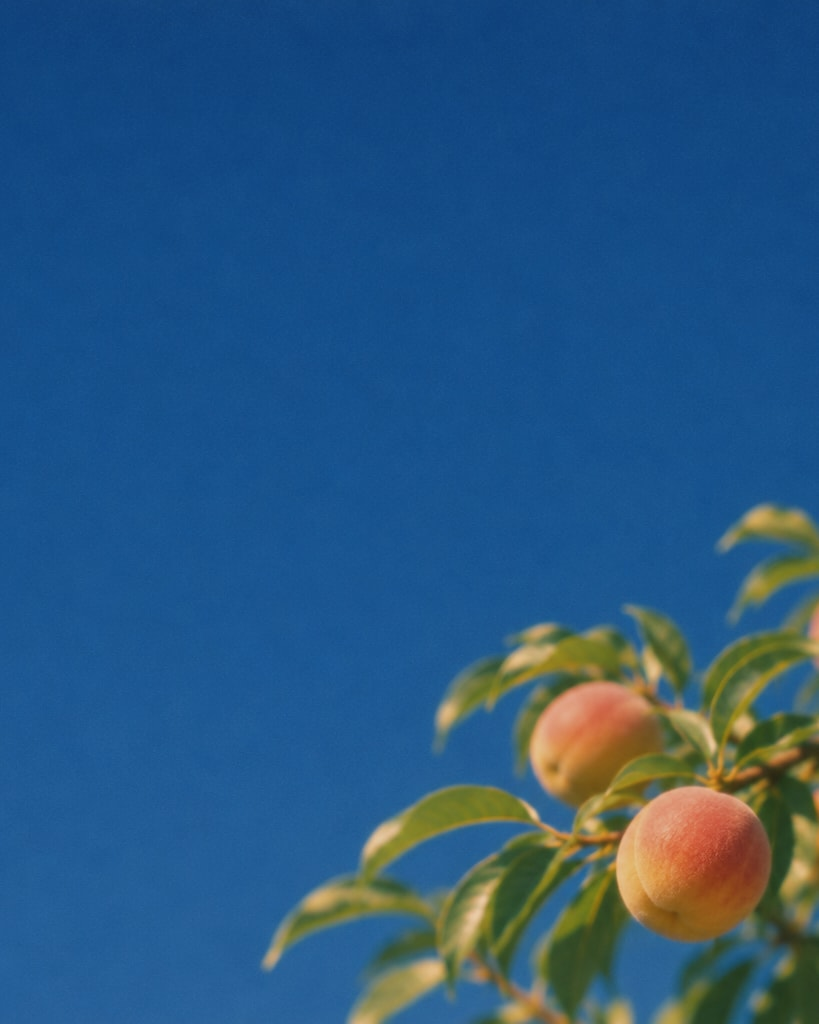
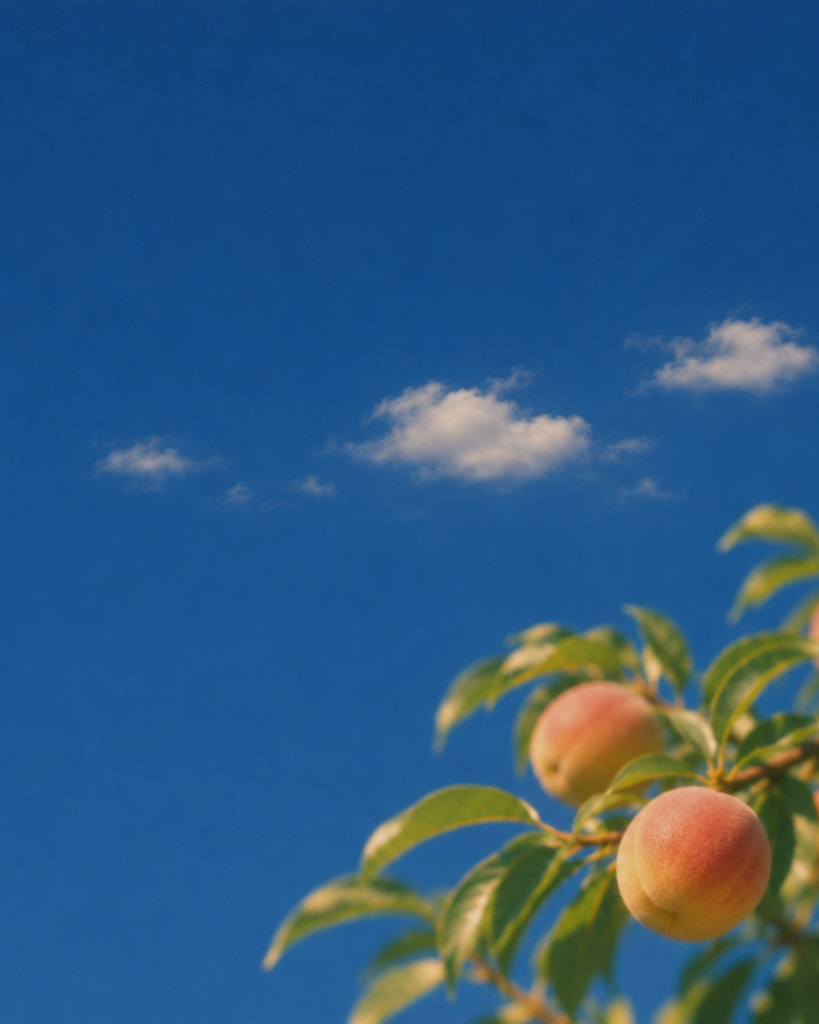
Add a plane to the lemon poster sky and clouds to the peach one

Changed region(s): [[0.3663, 0.3125, 1.0, 0.5], [0.1221, 0.4062, 0.2747, 0.4688], [0.2747, 0.4688, 0.3053, 0.5]]

diff --git a/src/app/poster-photo.tsx b/src/app/poster-photo.tsx
@@ -15,9 +15,15 @@ const photos: Record<ThemeId, { src: StaticImageData; alt: string }> = {
     src: sea,
     alt: "The sea seen from a rocky coast, with pink bougainvillea in the foreground",
   },
-  lemon: { src: lemon, alt: "A lemon tree branch against a deep blue sky" },
+  lemon: {
+    src: lemon,
+    alt: "A lemon tree branch against a deep blue sky, with a small plane and its contrail",
+  },
   pool: { src: pool, alt: "An orange tree branch over turquoise pool water" },
-  peach: { src: peach, alt: "A peach tree branch against a deep blue sky" },
+  peach: {
+    src: peach,
+    alt: "A peach tree branch against a deep blue sky with a few small clouds",
+  },
 };
 
 function Photo({
